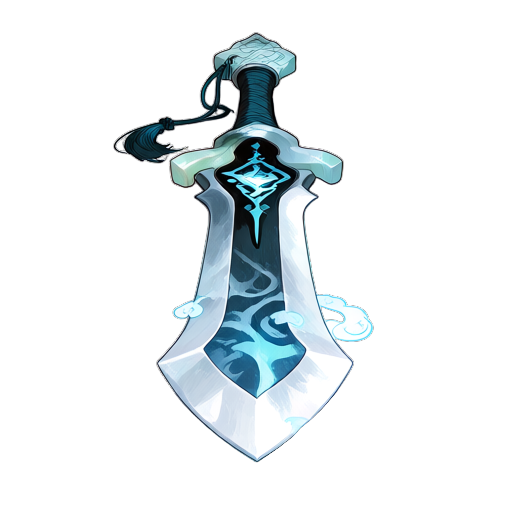
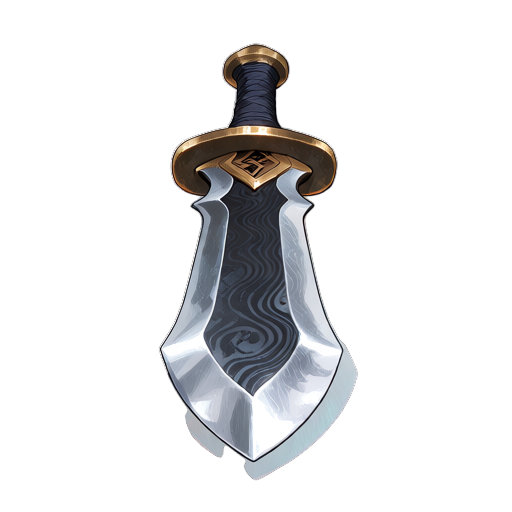
fix(assets): regenerate art_03 flying sword and art_19 herb tool with cold steel, brass, and <3.6% cyan

Changed region(s): [[0.2188, 0.0625, 0.75, 0.9375]]

diff --git a/tools/test_candidate_archetypes.py b/tools/test_candidate_archetypes.py
@@ -38,7 +38,7 @@ CANDIDATES = [
         "sub_domain": "harvesting_tools",
         "asset_class": "item_tool",
         "type": "item_icon",
-        "material": "forged cold iron crescent blade with polished dark rosewood handle",
+        "material": "forged cold iron crescent blade with polished dark rosewood handle, warm golden brass ferrule, zero cyan tint",
         "footprint_cells": [1, 1],
         "canvas_px": [128, 128],
         "pivot": "center",
@@ -51,37 +51,37 @@ CANDIDATES = [
             {
                 "variant_slug": "pristine",
                 "name": "Pristine Sharp Crescent Sickle",
-                "prompt_modifier": "immaculate polished cold iron blade, razor sharp edge, clean dark rosewood grip wrapped in black silk cord",
+                "prompt_modifier": "immaculate polished cold iron blade, razor sharp edge, clean dark rosewood grip wrapped in black silk cord, warm brass ferrule, zero cyan tint",
                 "seed_offset": 101,
             },
             {
                 "variant_slug": "rain_soaked",
                 "name": "Rain-Soaked Crescent Sickle",
-                "prompt_modifier": "wet glistening metallic surface with micro water droplets on blade, darkened damp rosewood grip",
+                "prompt_modifier": "wet glistening metallic surface with micro water droplets on blade, darkened damp rosewood grip, zero cyan tint",
                 "seed_offset": 102,
             },
             {
                 "variant_slug": "winter_frost",
                 "name": "Winter Frosted Crescent Sickle",
-                "prompt_modifier": "delicate rim of white crystalline rime ice along cutting edge, pale frosted wood grain",
+                "prompt_modifier": "subtle rim of white frost crystals along cutting edge, dark rosewood handle, zero cyan tint",
                 "seed_offset": 103,
             },
             {
                 "variant_slug": "damaged_chipped",
                 "name": "Damaged Chipped Crescent Sickle",
-                "prompt_modifier": "notched jagged blade edge with small chipped cracks, splintered pommel, frayed binding twine",
+                "prompt_modifier": "notched jagged blade edge with small chipped cracks, splintered pommel, frayed binding twine, zero cyan tint",
                 "seed_offset": 104,
             },
             {
                 "variant_slug": "pos_ground_drop_flat",
                 "name": "Ground Drop Flat Reaping Sickle",
-                "prompt_modifier": "world loot drop presentation, sickle lying flat horizontally on ground plane in 2D orthographic top-down RPG perspective, subtle micro contact shadow beneath wooden handle and curved blade, resting flat",
+                "prompt_modifier": "world loot drop presentation, sickle lying flat horizontally on ground plane in 2D orthographic top-down RPG perspective, subtle micro contact shadow beneath wooden handle and curved blade, resting flat, zero cyan tint",
                 "seed_offset": 105,
             },
             {
                 "variant_slug": "rot_vertical_north",
                 "name": "Vertical Upright Sickle",
-                "prompt_modifier": "vertical straight orientation with handle pointing downward and curved crescent hook facing upward at the top, centered alignment",
+                "prompt_modifier": "vertical straight orientation with handle pointing downward and curved crescent hook facing upward at the top, centered alignment, zero cyan tint",
                 "seed_offset": 106,
             },
         ],
@@ -446,13 +446,13 @@ CANDIDATES = [
     {
         "id": "ancient_china_low_cultivation.artifacts_and_paraphernalia.azure_frost_flying_sword",
         "asset_slug": "azure_frost_flying_sword",
-        "name": "Azure Frost Flying Sword",
-        "vietnamese_name": "Thanh Sương Phi Kiếm",
+        "name": "Iron Pine Straight Flying Sword",
+        "vietnamese_name": "Thiết Tùng Trực Phi Kiếm",
         "domain": "artifacts_and_paraphernalia",
         "sub_domain": "flying_swords",
         "asset_class": "item_weapon",
         "type": "item_icon",
-        "material": "forged millennium cold iron straight blade with azure frost talismanic fuller, dark sandalwood hilt wrapped in black silk cord, carved jade pommel tassel",
+        "material": "forged cold iron steel straight blade with folded Damascus steel grain, polished golden bronze crossguard fittings (#D4A347), wrapped dark rosewood hilt",
         "footprint_cells": [1, 1],
         "canvas_px": [128, 128],
         "pivot": "center",
@@ -465,31 +465,31 @@ CANDIDATES = [
             {
                 "variant_slug": "pos_inventory_icon_45deg",
                 "name": "Inventory Icon 45-Degree Diagonal Sword",
-                "prompt_modifier": "macro inventory icon presentation, tilted diagonally at 45 degrees, hilt and jade tassel at bottom-left, sharp pointed blade tip pointing toward top-right, clean square framing",
+                "prompt_modifier": "macro inventory icon presentation, tilted diagonally at 45 degrees, polished steel blade with folded Damascus grain, warm golden bronze guard, dark rosewood hilt at bottom-left, sharp pointed blade tip pointing toward top-right, clean square framing, zero cyan tint",
                 "seed_offset": 1001,
             },
             {
                 "variant_slug": "pos_ground_drop_flat_east",
                 "name": "Ground Drop Flat East Sword",
-                "prompt_modifier": "world loot drop presentation, lying flat horizontally pointing East (90 degrees to the right), 2D orthographic top-down RPG perspective, resting flat, subtle micro contact shadow beneath hilt and blade",
+                "prompt_modifier": "world loot drop presentation, lying flat horizontally pointing East (90 degrees to the right), 2D orthographic top-down RPG perspective, resting flat, polished steel blade, bronze guard, subtle micro contact shadow beneath hilt and blade, zero cyan tint",
                 "seed_offset": 1002,
             },
             {
                 "variant_slug": "pos_ground_drop_flat_south",
                 "name": "Ground Drop Flat South Sword",
-                "prompt_modifier": "world loot drop presentation, lying flat pointing South (180 degrees downward toward camera), 2D orthographic top-down perspective with foreshortened blade, resting flat, subtle micro contact shadow beneath",
+                "prompt_modifier": "world loot drop presentation, lying flat pointing South (180 degrees downward toward camera), 2D orthographic top-down perspective with foreshortened blade, polished steel blade, bronze guard, resting flat, subtle micro contact shadow beneath, zero cyan tint",
                 "seed_offset": 1003,
             },
             {
                 "variant_slug": "rot_north_0deg",
                 "name": "Upright Vertical North Sword",
-                "prompt_modifier": "vertical straight sword orientation pointing straight North (0 degrees upward), hilt at bottom, pointed blade tip pointing vertically up, centered symmetrical alignment",
+                "prompt_modifier": "vertical straight sword orientation pointing straight North (0 degrees upward), hilt at bottom, pointed blade tip pointing vertically up, centered symmetrical alignment, polished steel blade, bronze guard, zero cyan tint",
                 "seed_offset": 1004,
             },
             {
                 "variant_slug": "rot_west_270deg",
                 "name": "Horizontal West Pointing Sword",
-                "prompt_modifier": "horizontal straight sword orientation pointing West (270 degrees to the left), hilt on right, pointed blade tip pointing horizontally to the left, centered profile",
+                "prompt_modifier": "horizontal straight sword orientation pointing West (270 degrees to the left), hilt on right, pointed blade tip pointing horizontally to the left, centered profile, polished steel blade, bronze guard, zero cyan tint",
                 "seed_offset": 1005,
             },
         ],
@@ -731,6 +731,7 @@ def run_candidate_test(
     candidate_slug: str | None = None,
     variant_slug: str | None = None,
     base_seed: int = 8800,
+    force: bool = False,
 ) -> int:
     targets = [c for c in CANDIDATES if not candidate_slug or c["asset_slug"] == candidate_slug]
     if not targets:
@@ -774,6 +775,14 @@ def run_candidate_test(
                 args.size = 1024
 
             out_subfolder = f"candidate_tests/{c_slug}"
+
+            if force:
+                out_dir = REPO_ROOT / "build" / out_subfolder
+                if out_dir.exists():
+                    for old_tmp in out_dir.glob(f"*{seed}*"):
+                        old_tmp.unlink(missing_ok=True)
+                for old_tmp in (OUTPUT_DIR / c_slug).glob(f"*{seed}*"):
+                    old_tmp.unlink(missing_ok=True)
 
             t0 = time.time()
             success = False
@@ -915,6 +924,10 @@ def main(argv: list[str] | None = None) -> int:
         "--audit", action="store_true", help="Audit all generated candidate variants"
     )
 
+    parser.add_argument(
+        "--force", action="store_true", help="Force overwrite existing renders"
+    )
+
     args = parser.parse_args(argv)
 
     if args.list:
@@ -932,6 +945,7 @@ def main(argv: list[str] | None = None) -> int:
         candidate_slug=args.candidate,
         variant_slug=args.variant,
         base_seed=args.seed,
+        force=args.force,
     )
 
 
